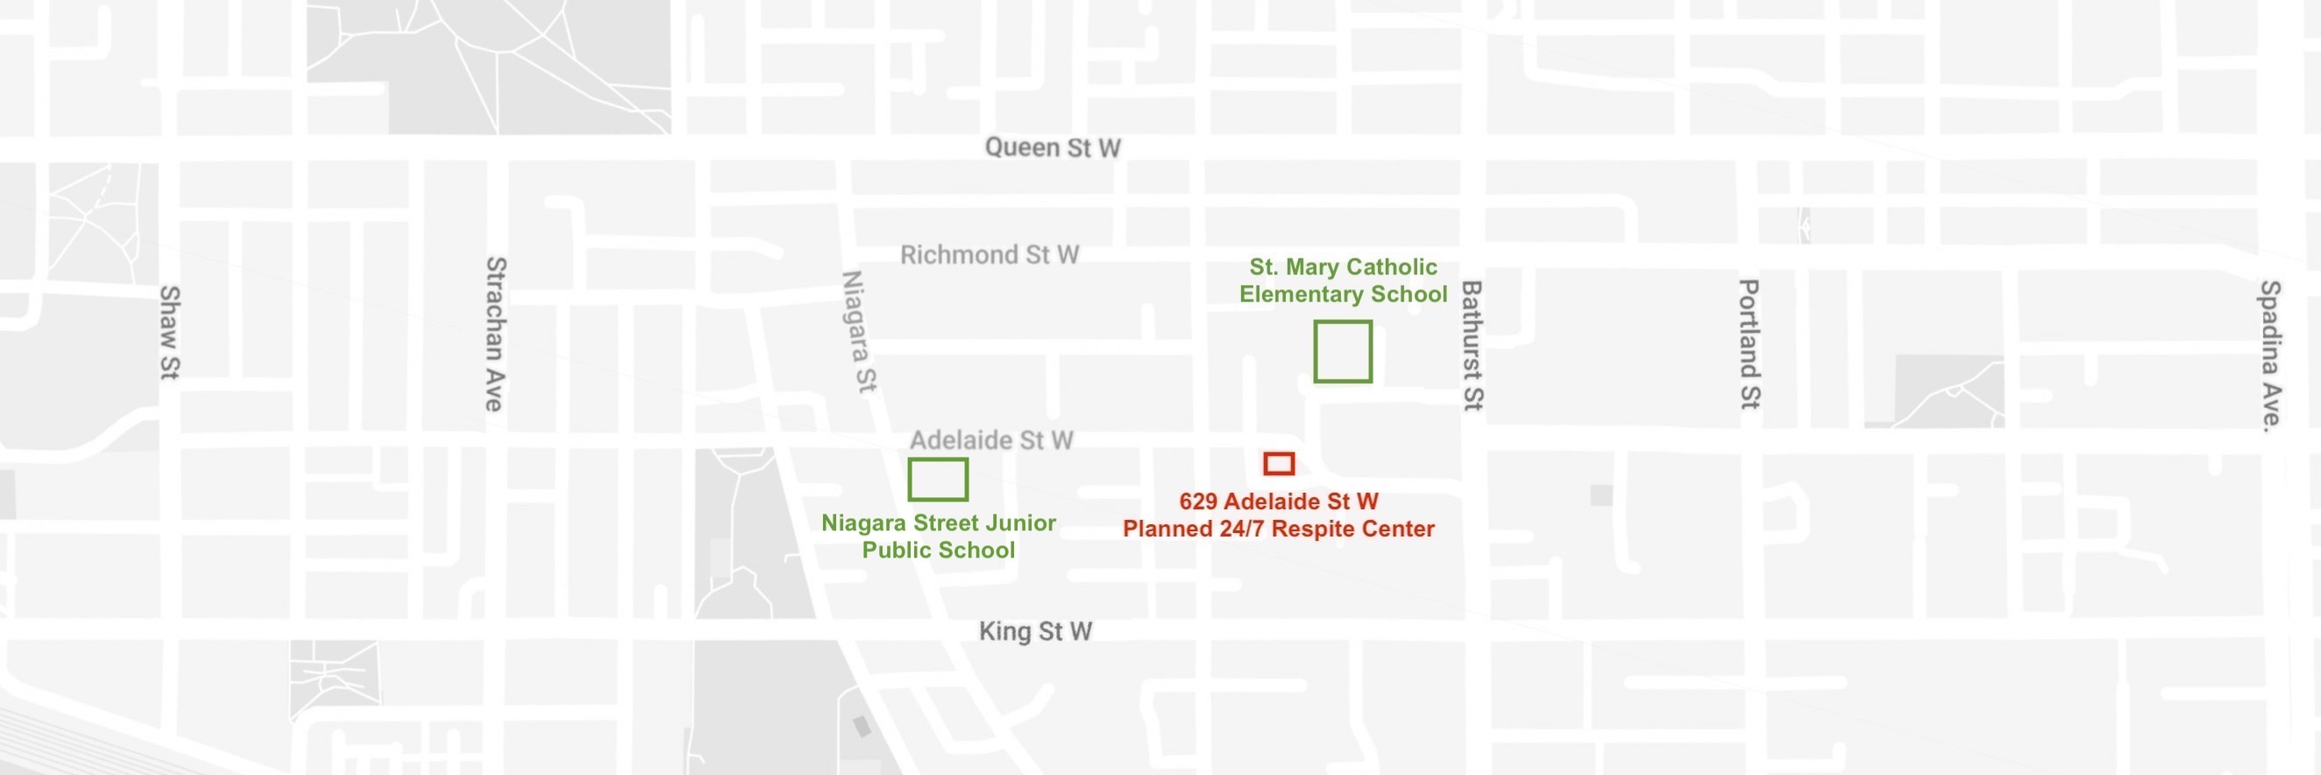
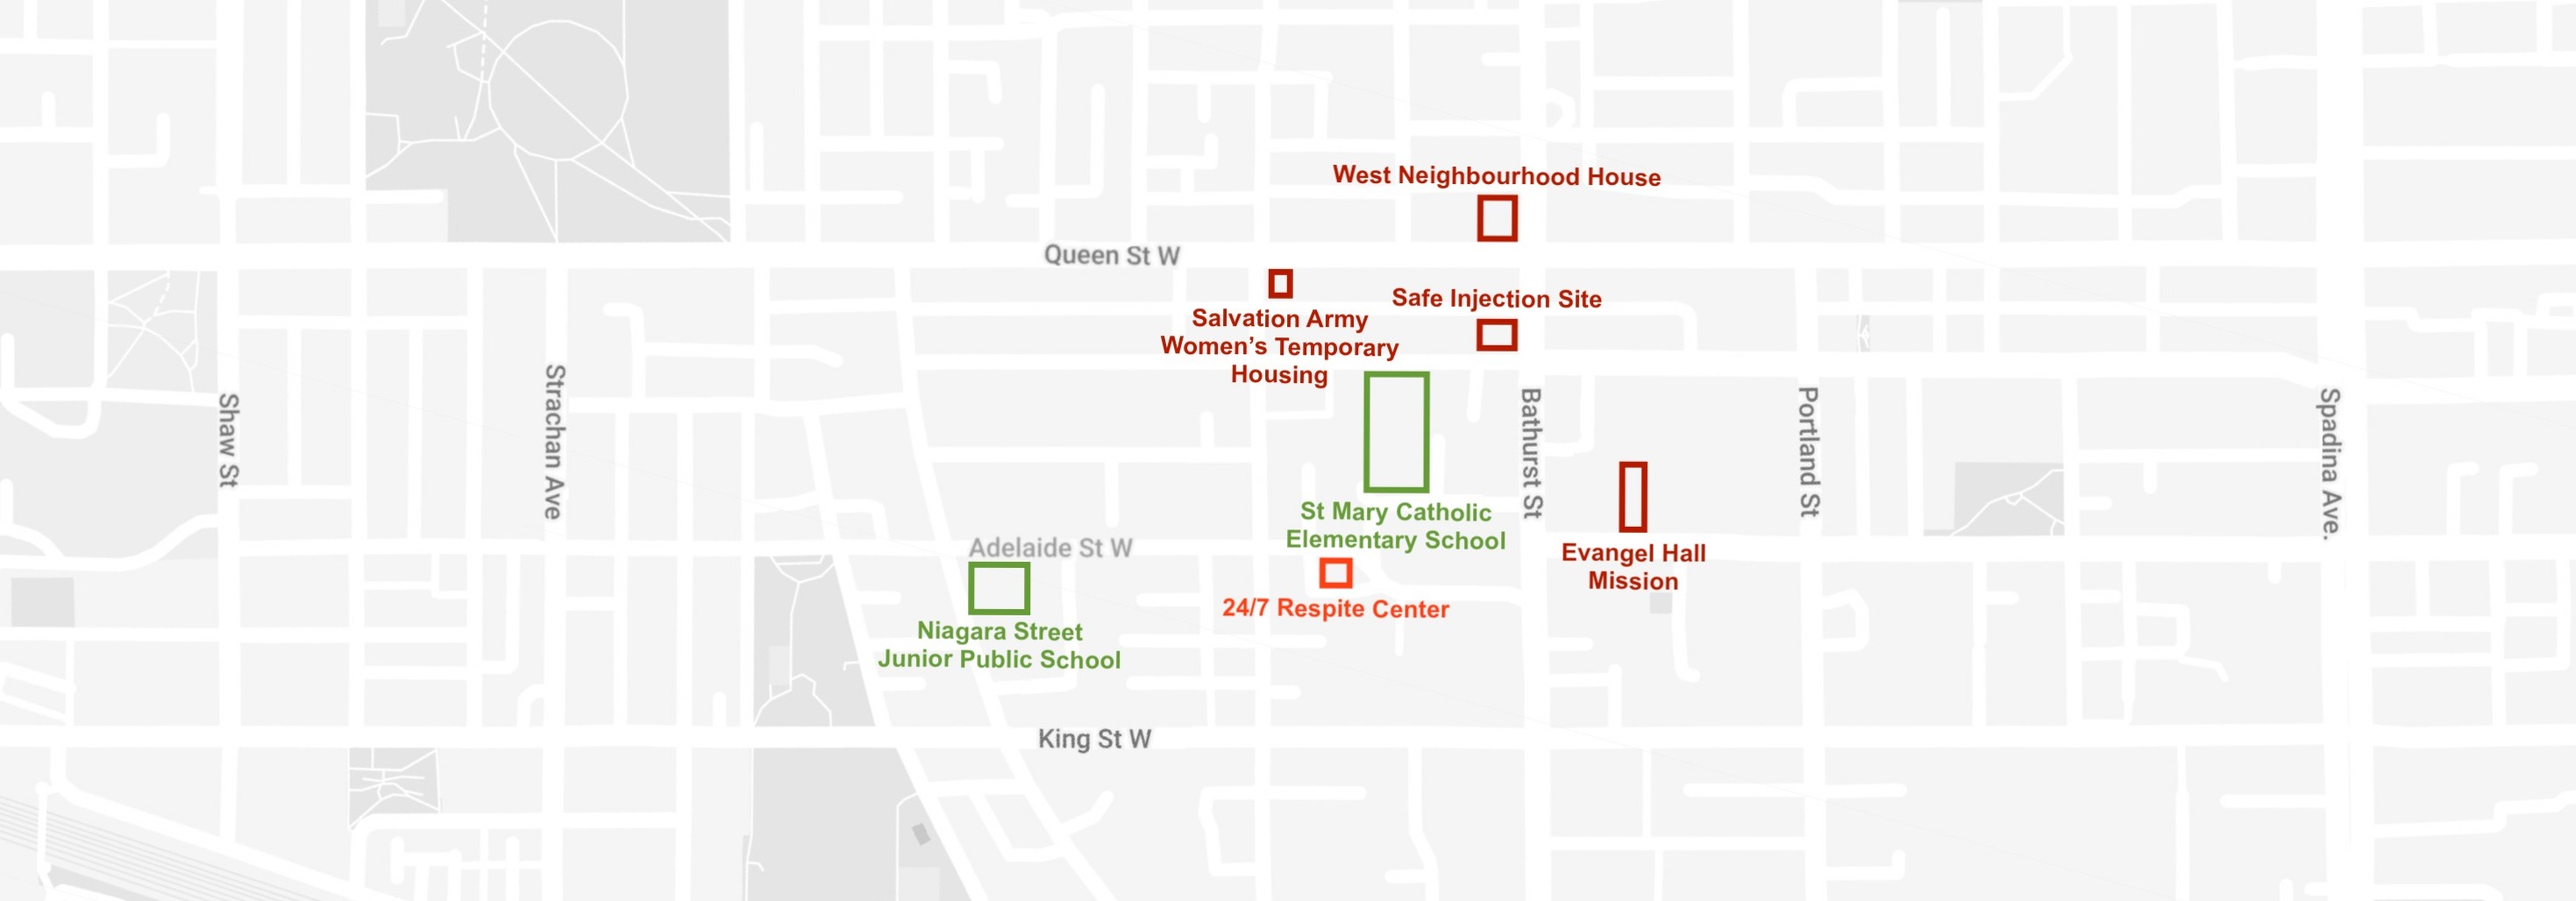
Map with more labels
- more locations on map
- remove Mailchimp logo
- adjust email form padding
- fix email form causing section to take up more than half screen

diff --git a/index.html b/index.html
@@ -83,8 +83,7 @@
 
     <div class="half-image">
 
-
-      <div class="text-standalone text-standalone-alternate" id="help">
+      <div class="text-next-to-image" id="help">
         <h4>How to Help</h4>
 
         <p> Email and call the following people to let them know why we oppose this plan:
@@ -165,13 +164,13 @@
         <div class="optionalParent">
             <div class="clear foot">
                 <input type="submit" name="subscribe" id="mc-embedded-subscribe" class="button" value="Subscribe">
-                <p style="margin: 0px auto;"><a href=http://eepurl.com/iB6aUg title="Mailchimp - email marketing made easy and fun"><span style="display: inline-block; background-color: transparent; border-radius: 4px;"><img class="refferal_badge" src=https://digitalasset.intuit.com/render/content/dam/intuit/mc-fe/en_us/images/intuit-mc-rewards-text-dark.svg alt="Intuit Mailchimp" style="width: 220px; height: 40px; display: flex; padding: 2px 0px; justify-content: center; align-items: center;"></span></a></p>
             </div>
         </div>
     </div>
 </form>
 </div>
 <script type="text/javascript" src="//s3.amazonaws.com/downloads.mailchimp.com/js/mc-validate.js"></script><script type="text/javascript">(function($) {window.fnames = new Array(); window.ftypes = new Array();fnames[0]='EMAIL';ftypes[0]='email';fnames[1]='FNAME';ftypes[1]='text';fnames[2]='LNAME';ftypes[2]='text';fnames[3]='ADDRESS';ftypes[3]='address';fnames[4]='PHONE';ftypes[4]='phone';fnames[5]='BIRTHDAY';ftypes[5]='birthday';}(jQuery));var $mcj = jQuery.noConflict(true);</script></div>
+
       </div>
 
 

diff --git a/style.css b/style.css
@@ -99,6 +99,11 @@ div.text-standalone-alternate {
   background-color: #EEEEEE;
 }
 
+#mc_embed_shell {
+  margin-bottom: 20px;
+  max-width: 400px;
+}
+
 #mc_embed_signup_scroll {
   background-color: #EEEEEE;
 }
@@ -108,6 +113,6 @@ div.text-standalone-alternate {
   margin-bottom: 10px;
 }
 
-.mc-field-group .text {
-  margin-left: 10px;
+.mc-field-group label {
+  min-width: 110px;
 }
